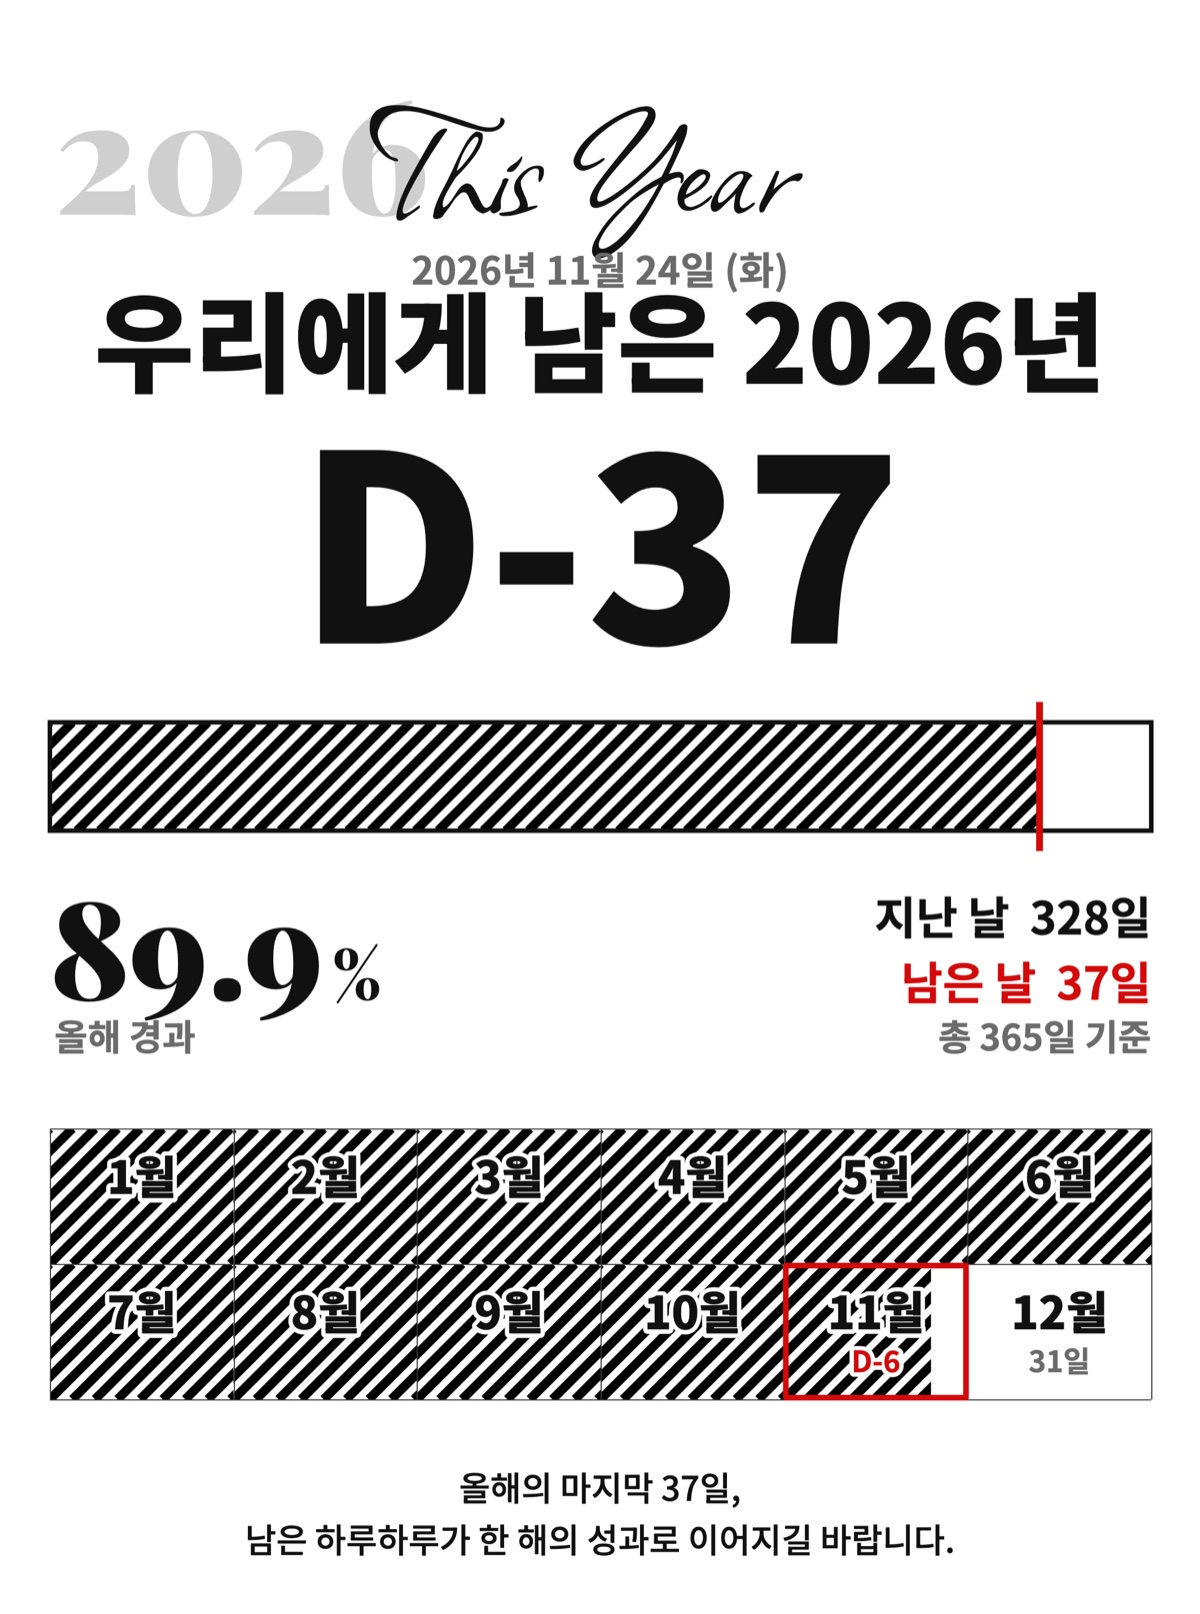
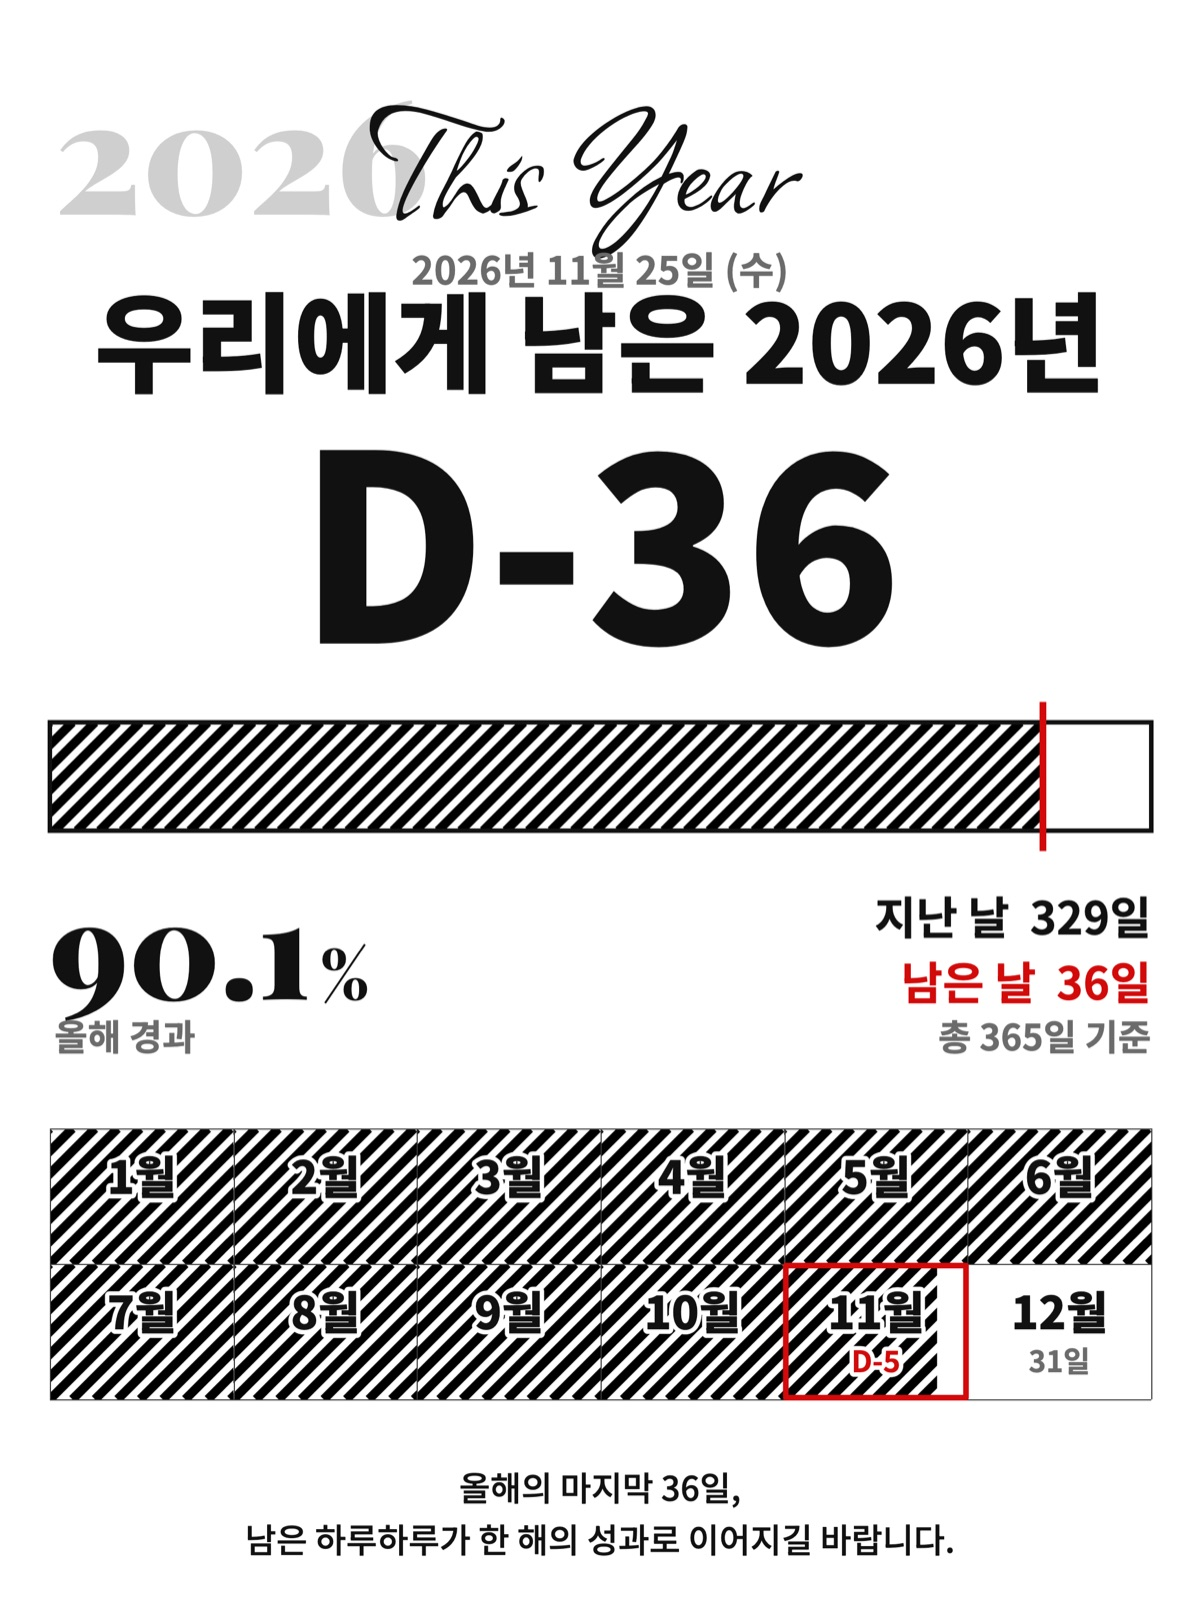
공부방 아침 11-25 (5장)

diff --git a/insight/20261125/index.html b/insight/20261125/index.html
@@ -1,0 +1,28 @@
+<!doctype html>
+<html lang="ko"><head><meta charset="utf-8">
+<meta name="viewport" content="width=device-width,initial-scale=1">
+<meta name="robots" content="noindex,nofollow">
+<title>보험인사이트 11/25(수)</title>
+<meta property="og:title" content="보험인사이트 11/25(수)">
+<meta property="og:description" content="MK 보험인사이트 · 오늘 바로 쓰는 상담 대화·퀴즈·고객 전달용 카드">
+<meta property="og:image" content="https://jungmookyung.github.io/bohum-hanip/insight/20261125/1.jpg">
+<meta property="og:url" content="https://jungmookyung.github.io/bohum-hanip/insight/20261125/">
+<meta property="og:type" content="article">
+<style>
+:root{--bg:#eef1f6;--fg:#0E1F54}
+@media (prefers-color-scheme:dark){:root{--bg:#0b1020;--fg:#dfe6ff}}
+body{margin:0;background:var(--bg);color:var(--fg);font-family:'Pretendard','Noto Sans KR',sans-serif}
+main{max-width:720px;margin:0 auto;padding:12px 12px 40px}
+h1{font-size:18px;margin:6px 4px 12px}
+img{display:block;width:100%;height:auto;margin:0 0 12px;border-radius:10px;box-shadow:0 1px 4px rgba(0,0,0,.12)}
+p{font-size:13px;opacity:.7;margin:4px}
+</style></head>
+<body><main>
+<h1>보험인사이트 11/25(수)</h1>
+<img src="1.jpg" alt="1장" loading="eager">
+<img src="2.jpg" alt="2장" loading="lazy">
+<img src="3.jpg" alt="3장" loading="lazy">
+<img src="4.jpg" alt="4장" loading="lazy">
+<img src="5.jpg" alt="5장" loading="lazy">
+<p>사진을 길게 누르면 저장할 수 있어요.</p>
+</main></body></html>
